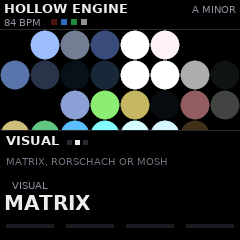
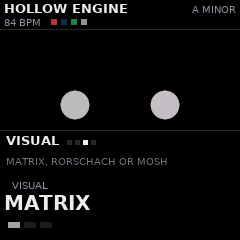
Fixes from Theo's review (issue #1): VISUAL's indicator, PRESET, MIDI and keys, SAVE, MATRIX
From Theo's patch:
- The VISUAL page: three squares under K1, the chosen visual lit (the page's dots
  are GLO's pages, so they never changed); an empty column draws no bar.
- PRESET off the SOUND page no longer shows the page's own K1 as turned.
- The controls comment at the top of app.c brought up to date.

From his notes:
- Notes in from MIDI (the render) and from the keys (the UI loop) wrote one ring
  unguarded: an event could be lost, a note-off hanging a note. Now two rings, one
  each, and 32 deep.
- A note-off let go of every key voice on that note: a chord sharing a held white
  key's note cut it. Each voice now remembers who played it (a key, or a MIDI
  channel), and a note-off lets go of that one's alone.
- SAVE with all 16 slots full went over slot 16 saying SAVED: now ALL 16 FULL,
  SLOT 16: OVER IT.
- MATRIX: off HOME the hidden bottom rows stopped ageing and came back stale; every
  row ages now.

The guide's VISUAL screenshot refreshed; README thanks him.

Claude-Session: https://claude.ai/code/session_01BZyVySDnxf9xQi9jonD4bJ

diff --git a/app/app.c b/app/app.c
@@ -6,14 +6,16 @@
  * Controls
  *   K1-K4              at HOME the layers' levels (shown while they turn); HOME held + K1-K4 the macros (MOOD,
  *                      ACTIVITY, EVOLVE, DRIFT); on the other pages, their four macros
- *   HOME EDIT SEQ ENV FX LFO GLO ARP   the pages: HOME, SOUND, SEQUENCE, MIX, EFFECTS, MOTION, SCALE, MIDI OUT;
- *                      pressed again ENV: VOICE; GLO: SCREEN; ARP: MIDI IN, then USB AUDIO
+ *   HOME EDIT SEQ ENV FX LFO GLO ARP   the pages: HOME, SOUND, SEQUENCE, MIX, SENDS, MOTION, MACROS, MIDI;
+ *                      pressed again ENV: VOICE; FX: EFFECTS; LFO: WARBLE; GLO: SCALE, VISUAL, SCREEN;
+ *                      ARP: CHANNELS, USB AUDIO
  *   HOME tapped at HOME   the processor's load, and whether saving works
  *   SELECT, SEL        the layer the SOUND, SEQUENCE and MIX pages (and the keys) play
  *   PRESET             the chosen layer's engine
  *   ALGORITHM          your saved pieces
- *   REC                a new piece (held: a new key, scale and tempo too); SEL held + REC: the chosen layer anew
- *   SAVE               keep the piece; PLAY start / stop; OCT- / OCT+ the pieces before and after
+ *   REC                a new piece (held: in the same key and scale); SEL held + REC: the chosen layer anew
+ *   SAVE               keep the piece; PLAY start / stop
+ *   OCT- / OCT+        the keys' octave; on GLO's pages, back and forward through the pieces REC replaced
  *   white keys         the scale's notes, up from the key; black keys: the scale's chords, I to VII then I to IV */
 #include "fastmath.h"
 #include "dsp/engine.h"
@@ -47,6 +49,7 @@ typedef struct {
     uint8_t peg_n, peg_size;             /* PEGS: COUNT (an index into PEG_NS), SIZE 0..100 */
 } settings_t;
 static settings_t set;
+static uint8_t save_over;                /* the last SAVE went over a piece (every slot full): said so */
 static uint32_t xr_seen, xr_saves, save_end;   /* (HOME's DROPS: the saves' kept apart; see store_save) */
 #define NPAL 9
 #define NPEG_NS 6
@@ -224,7 +227,7 @@ static void midi_in(void)
             if (set.layers_in == 2) continue;            /* NOTES IN: OFF */
             if (set.layers_in == 1 && ch >= set.midi_ch && ch < set.midi_ch + 4u) layer = (int)(ch - set.midi_ch);
             else if (set.in_ch && ch != set.in_ch - 1u) continue;
-            engine_key(&eng, ty == 0x90u && d2 > 0, note, (int)(d2 ? d2 : 64), layer);
+            engine_key(&eng, 1, 64 + (int)ch, ty == 0x90u && d2 > 0, note, (int)(d2 ? d2 : 64), layer);   /* (from the render: MIDI's ring; a channel its owner) */
         } else if (ty == 0xB0u && set.cc_in) {
             uint8_t *g[12] = { &set.cur.mood, &set.cur.motion, &set.cur.evolve, &set.cur.weird, &set.cur.reverb, &set.cur.echo,
                                &set.cur.grain, &set.cur.dirt, &set.cur.link, &set.cur.warp, &set.cur.drift, &set.cur.chaos };
@@ -630,12 +633,14 @@ static void store_now(int slot)
 {
     store_ok = store_save();
     char s[12] = "SLOT ", n[4]; int_text(slot + 1, n); text_cat(s, n);
-    if (store_ok) pop("SAVED", s, C_TXT);
+    if (store_ok && save_over) { save_over = 0; text_cat(s, ": OVER IT"); pop("ALL 16 FULL", s, C_RED); }
+    else if (store_ok) pop("SAVED", s, C_TXT);
     else pop("NOT SAVED", "UNTIL POWER OFF", C_RED);
 }
 
 static void save_piece(void)
 {
+    save_over = set.slot == 255 && set.nsaved >= NSAVED;   /* (all 16 full, a new piece: it goes over the last) */
     int slot = set.slot != 255 ? set.slot : set.nsaved < NSAVED ? set.nsaved++ : NSAVED - 1;
     set.saved[slot] = set.cur; set.slot = (uint8_t)slot;
     set_dirty = 0; autosave_at = 0;
@@ -767,7 +772,7 @@ static void keys_input(uint32_t keys)
         if ((keys & b) && !(ui.keys & b)) {
             int note = deg_note(sc, base, i), v = touch_vel((uint32_t)kk);
             ui.key_notes[kk][0] = (uint8_t)note; ui.key_n[kk] = 1; ui.last_note = note;
-            engine_key(&eng, 1, note, v ? v : 100, -1);
+            engine_key(&eng, 0, kk + 1, 1, note, v ? v : 100, -1);
         }
     }
     for (int j = 0; j < 11; j++) {
@@ -776,7 +781,7 @@ static void keys_input(uint32_t keys)
         if ((keys & b) && !(ui.keys & b)) {
             int d[5], n = chord_degs(set.cur.chord, j, d), v = touch_vel((uint32_t)kk);
             if (ui.sel == L_GROUND) base += 12;      /* (chords down there would be mud) */
-            for (int c = 0; c < n; c++) { int note = deg_note(sc, base, d[c]); ui.key_notes[kk][c] = (uint8_t)note; engine_key(&eng, 1, note, (v ? v : 100) * 3 / 4, -1); }
+            for (int c = 0; c < n; c++) { int note = deg_note(sc, base, d[c]); ui.key_notes[kk][c] = (uint8_t)note; engine_key(&eng, 0, kk + 1, 1, note, (v ? v : 100) * 3 / 4, -1); }
             ui.last_note = ui.key_notes[kk][0]; ui.last_chord = n;
             ui.key_n[kk] = (uint8_t)n;
             if (ui.sel == L_GROUND) base -= 12;
@@ -784,7 +789,7 @@ static void keys_input(uint32_t keys)
     }
     for (int k = 0; k < NKEYS; k++)
         if (!(keys >> k & 1u) && (ui.keys >> k & 1u)) {
-            for (int c = 0; c < ui.key_n[k]; c++) engine_key(&eng, 0, ui.key_notes[k][c], 0, -1);
+            for (int c = 0; c < ui.key_n[k]; c++) engine_key(&eng, 0, k + 1, 0, ui.key_notes[k][c], 0, -1);
             ui.key_n[k] = 0;
         }
 }
@@ -850,8 +855,12 @@ static void input(void)
     if ((d = enc(EN_SELECT)) != 0) select_layer(ui.sel + (int)d);
     if ((d = enc(EN_ALGO)) != 0) load_step((int)d);
     if ((d = enc(EN_PRESET)) != 0) {
-        int pg = ui.page; ui.page = PG_SOUND; knob_turn(0, (int)d); ui.page = pg;
-        if (pg != PG_SOUND) { char s[24]; knob_text(PG_SOUND, 0, s); pop(LAYER_NAME[ui.sel], s, LAYER_C[ui.sel]); }
+        int pg = ui.page, lk = ui.last_knob; uint32_t ka = ui.knob_at;
+        ui.page = PG_SOUND; knob_turn(0, (int)d); ui.page = pg;
+        if (pg != PG_SOUND) {                    /* (this page's own knobs left as they were: K1 not shown as turned) */
+            ui.last_knob = lk; ui.knob_at = ka;
+            char s[24]; knob_text(PG_SOUND, 0, s); pop(LAYER_NAME[ui.sel], s, LAYER_C[ui.sel]);
+        }
     }
 
     ui.btn = btn; ui.keys = keys;
@@ -906,6 +915,7 @@ static float pegs_gain = 1.0f;            /* (the splash's fade out at its end) 
 static int peg_cols(void) { return splash_pegs ? 8 : PEG_NS[set.peg_n % NPEG_NS]; }
 static int peg_cell(void) { return 240 / peg_cols(); }
 static int peg_rows(void) { int r = VIEW_H / peg_cell(); return r > PG_MAX ? PG_MAX : r; }
+static int peg_rows_all(void) { int r = 240 / peg_cell(); return r > PG_MAX ? PG_MAX : r; }   /* (HOME's: the most there are) */
 static float fade_k(void) { return 0.4f + (float)(splash_pegs ? 100 : set.fade) * 0.016f; }   /* FADE: 0.4 .. 2 */
 
 static float pn_level(int i)                     /* a note's peg: lit as it sounds, fading after */
@@ -1005,7 +1015,7 @@ static void pegs_step(float dt)
     pg_tick += dt * 20.0f;
     int ticks = (int)pg_tick; pg_tick -= (float)ticks;
     pg_t = (uint16_t)(pg_t + ticks);
-    int rows = peg_rows(), cols = peg_cols();
+    int rows = peg_rows_all(), cols = peg_cols();   /* (every row ages, under the page's panel too: none frozen to come back stale at HOME) */
     for (int y = 0; y < rows; y++)
         for (int x = 0; x < cols; x++) {
             mixpeg_t *m = &mp[y][x];
@@ -1598,6 +1608,12 @@ static void draw_panel_rows(int y0)
         int vx = cx - text_w(f, v) / 2;
         if (vx < 4) vx = 4;
         cv_text(vx, y + (f == &FONT_M ? 14 : 18), f, v, hot ? C_WHITE : C_TXT);
+        if (knob_of(pg, k)->kind == K_NONE) continue;          /* (an empty column: no bar) */
+        if (knob_of(pg, k)->kind == K_VIS) {                    /* the three visuals: a square each, the chosen one lit */
+            for (int s = 0; s < 3; s++)
+                cv_rect(cx - 22 + s * 16, y + 42, 12, 6, s == set.visual ? dim(pc, hot ? 1.0f : 0.7f) : C_WELL);
+            continue;
+        }
         int bw = 48, fill = (int)(knob_frac(pg, k) * (float)bw + 0.5f);
         cv_rect(cx - bw / 2, y + 44, bw, 4, C_WELL);
         cv_rect(cx - bw / 2, y + 44, fill, 4, dim(pc, hot ? 1.0f : 0.7f));

diff --git a/app/dsp/engine.c b/app/dsp/engine.c
@@ -127,12 +127,14 @@ void engine_init(Engine *e, const Piece *p)
     e->seed_now = p->seed;
 }
 
-void engine_key(Engine *e, int on, int note, int vel, int layer)
+void engine_key(Engine *e, int src, int owner, int on, int note, int vel, int layer)
 {
-    uint32_t w = e->key_w;
-    if (w - e->key_r >= 16u) return;
-    e->key_in[w % 16u] = (uint32_t)(on & 1) | (uint32_t)(note & 127) << 8 | (uint32_t)(vel & 127) << 16 | (uint32_t)(layer + 1) << 24;
-    e->key_w = w + 1;
+    src &= 1;
+    uint32_t w = e->key_w[src];
+    if (w - e->key_r[src] >= 32u) return;
+    e->key_in[src][w % 32u] = (uint32_t)(on & 1) | (uint32_t)(owner & 127) << 1 | (uint32_t)(note & 127) << 8
+                            | (uint32_t)(vel & 127) << 16 | (uint32_t)(layer + 1) << 24;
+    e->key_w[src] = w + 1;
 }
 
 /* ------------------------------------------------------------------ notes: a sequencer's degree becomes notes */
@@ -224,20 +226,22 @@ static void play(Engine *e, int l, int sub, const SeqNote *sn)
 
 static void keys_in(Engine *e, int sub)
 {
-    while (e->key_r != e->key_w) {
-        uint32_t k = e->key_in[e->key_r % 16u]; e->key_r++;
-        int on = (int)(k & 1u), note = (int)(k >> 8 & 127u), lay = (int)(k >> 24 & 7u) - 1; float vel = (float)(k >> 16 & 127u) / 127.0f;
+    for (int src = 0; src < 2; src++)
+    while (e->key_r[src] != e->key_w[src]) {
+        uint32_t k = e->key_in[src][e->key_r[src] % 32u]; e->key_r[src]++;
+        int on = (int)(k & 1u), own = (int)(k >> 1 & 127u), note = (int)(k >> 8 & 127u), lay = (int)(k >> 24 & 7u) - 1;
+        float vel = (float)(k >> 16 & 127u) / 127.0f;
         if (lay < 0 || lay >= NUM_LAYERS) lay = e->key_layer;
         if (on) {
             Sound snd; layer_sound(e, lay, &snd);
             int vi = pick_voice(e->kv, KEY_POLY, &e->key_next);
-            e->kv_lay[vi] = (int8_t)lay;
+            e->kv_lay[vi] = (int8_t)lay; e->kv_own[vi] = (uint8_t)own;
             queue(e->kq, &e->nkq, sub, vi, note, vel, 600.0f, rng_bi(&e->rng) * 0.3f, &snd, rng_u32(&e->rng));
             post(e, lay, note, vel, 0, 1.5f);
             if (e->midi && e->midi_on) e->midi(0x09u | (0x90u | e->midi_keys_ch) << 8 | (uint32_t)note << 16 | (uint32_t)(vel * 127.0f) << 24);
         } else {
             for (int i = 0; i < KEY_POLY; i++)          /* (a key's voice: the one playing its note, held) */
-                if (e->kv[i].on && e->kv[i].note == note && e->kv[i].hold > 0 && e->nkq < EVQ) {
+                if (e->kv[i].on && e->kv[i].note == note && e->kv_own[i] == own && e->kv[i].hold > 0 && e->nkq < EVQ) {
                     VoiceEv *v = &e->kq[e->nkq++]; v->sub = (uint8_t)sub; v->voice = (uint8_t)i; v->rel = 1;
                 }
             if (e->midi && e->midi_on) e->midi(0x08u | (0x80u | e->midi_keys_ch) << 8 | (uint32_t)note << 16);

diff --git a/app/dsp/engine.h b/app/dsp/engine.h
@@ -99,9 +99,12 @@ struct Engine {
     Layer L[NUM_LAYERS];
     Voice kv[KEY_POLY]; VoiceEv kq[EVQ]; int nkq; int key_next;
     int8_t kv_lay[KEY_POLY];             /* each key voice's layer (whose knobs it follows) */
+    uint8_t kv_own[KEY_POLY];            /* and who played it (a key, or a MIDI channel): its note-off lets go of its own alone */
     Svf khp[2], klp[2]; Dirt kdirt;      /* the keys through their layer's chain: its TONE and DIRT (ENTROPY: in the voices) */
     int key_layer;                       /* the layer whose sound the keys play (SELECT) */
-    volatile uint32_t key_in[16]; volatile uint32_t key_w, key_r;   /* keys and MIDI notes in: (on, note, vel) */
+    /* notes in, two rings so neither writer can tread on the other: [0] the FM-1's keys (the UI loop), [1] MIDI in (the
+     * render). Each (on, owner, note, vel, layer) */
+    volatile uint32_t key_in[2][32]; volatile uint32_t key_w[2], key_r[2];
     float bus[ENGINE_SUB][NBUS][2][BLK];
     float gains[ENGINE_SUB][NBUS];
     int nsub;
@@ -148,7 +151,9 @@ struct Engine {
 };
 
 void engine_init(Engine *e, const Piece *p);
-void engine_key(Engine *e, int on, int note, int vel, int layer);   /* the keys and MIDI in: a note on a layer's sound (-1: the chosen layer's) */
+/* a note on a layer's sound (-1: the chosen layer's). src: 0 the FM-1's keys (from the UI loop), 1 MIDI in (from the
+ * render); owner (1-127): who played it, a key or a MIDI channel, so a note-off lets go of that one's note alone */
+void engine_key(Engine *e, int src, int owner, int on, int note, int vel, int layer);
 /* an app block of nsub control steps in three parts, as The Outside Inside's: control (one core: the sequencers, the
  * conductor, MIDI out), the layers (any layer on either core), the mix and the effects (one core, after both) */
 void engine_block_begin(Engine *e, int nsub);

diff --git a/README.md b/README.md
@@ -199,6 +199,10 @@ layers that trigger each other, and emotional chords under the strangeness. No c
 
 Built on [fm1-base](https://github.com/charlesvestal/fm1-base) by Charles Vestal and felucca-bsp; thank you.
 
+Thanks to Theo ([Rastapopolix](https://github.com/Rastapopolix)) for a code review that found and fixed several bugs
+(issue #1): the VISUAL page's indicator, PRESET lighting the wrong knob, notes in from MIDI and the keys treading on
+each other, a chord's note-off cutting a held key's, SAVE going over a full set unannounced, and MATRIX's hidden rows.
+
 ## Licence
 
 MPL-2.0. The screen's font is DejaVu Sans (`app/fonts`, Bitstream Vera's licence: `app/fonts/LICENSE-DejaVu.txt`).
